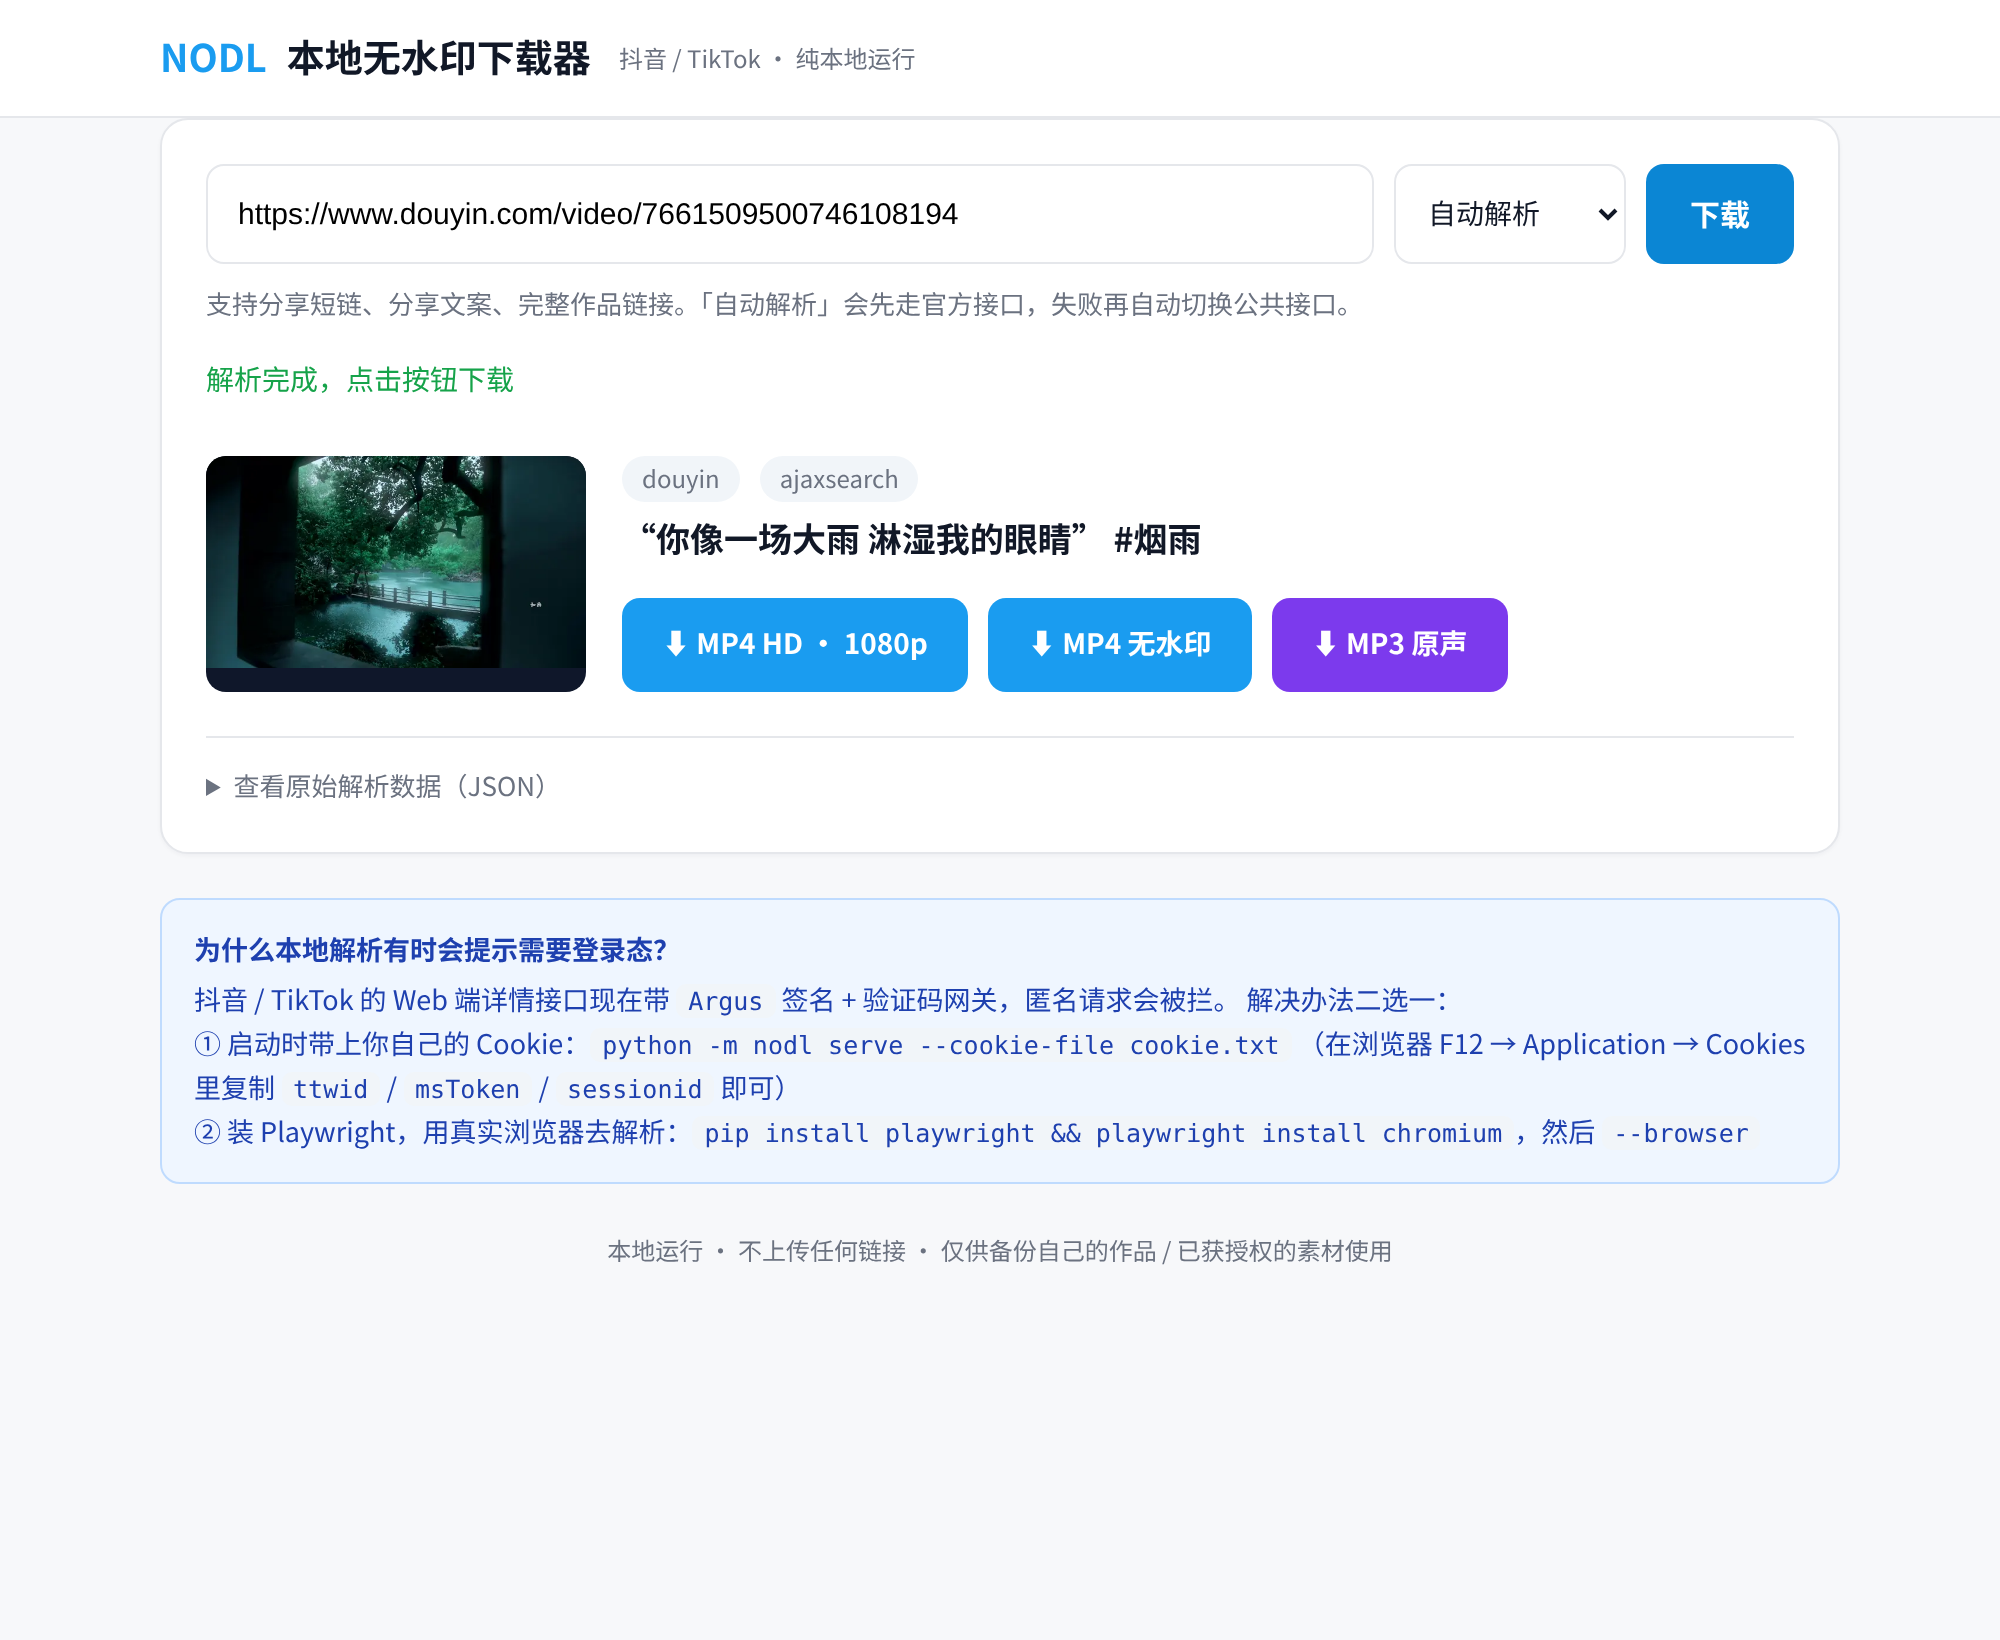
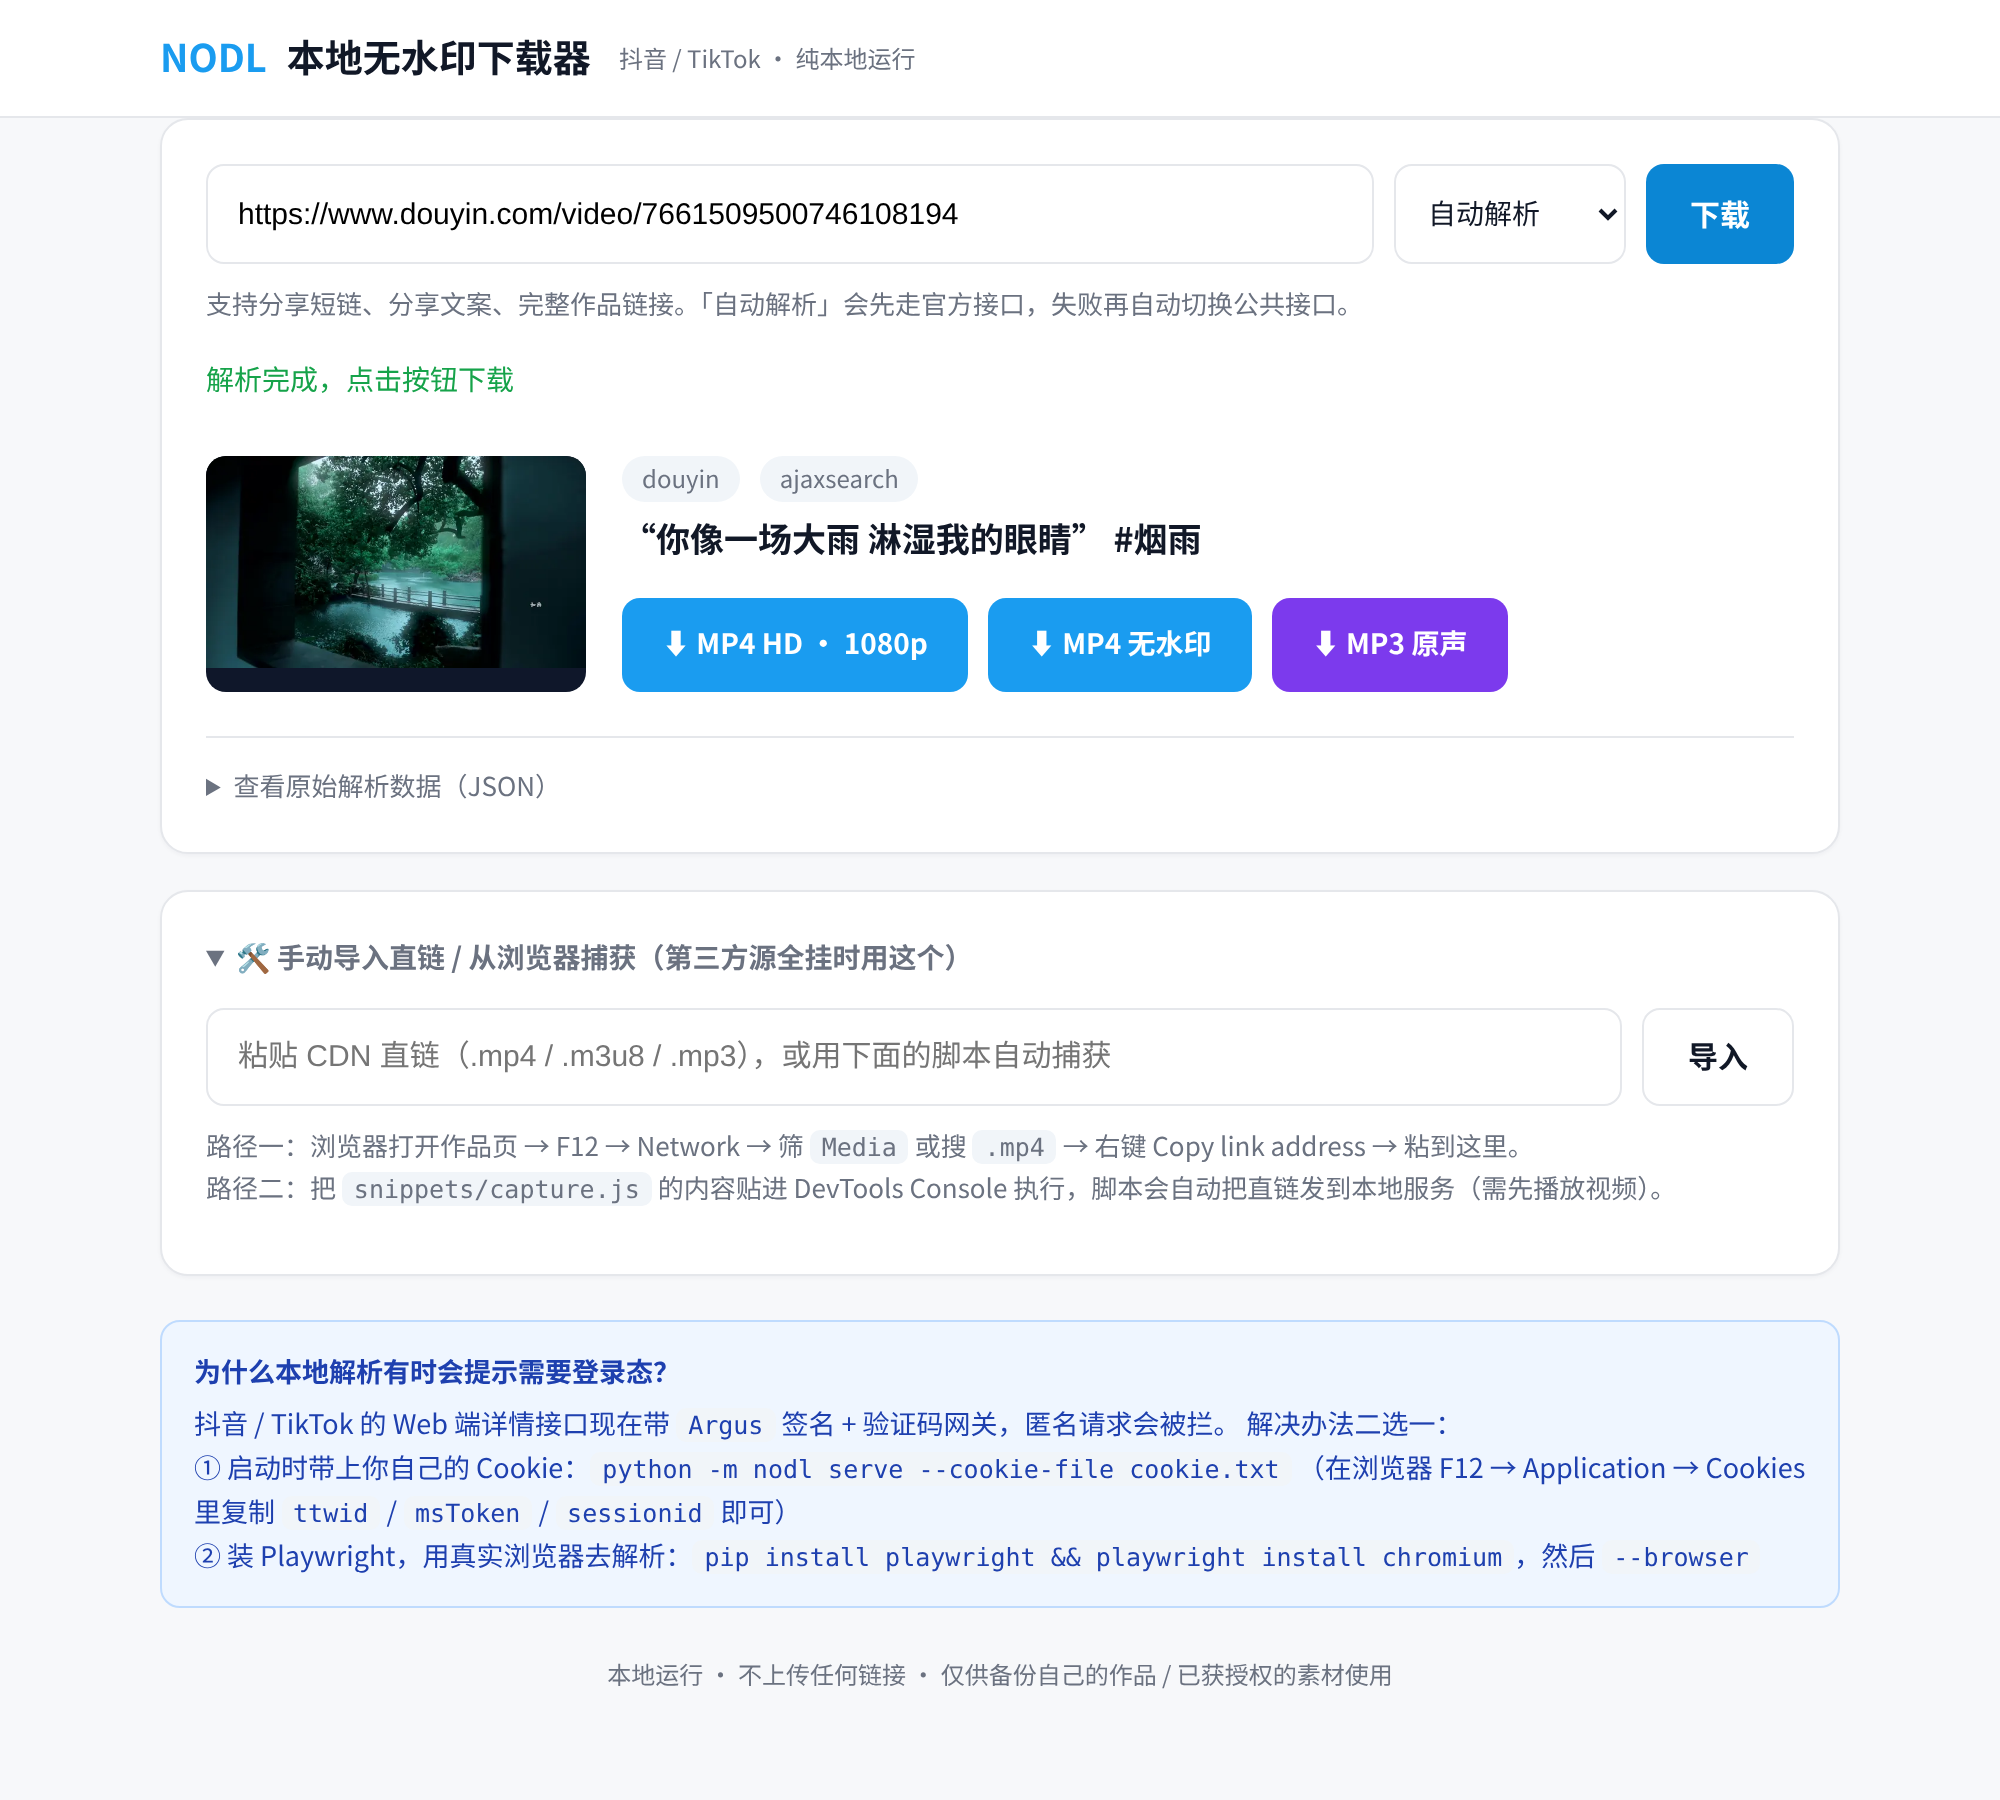
feat: 手动导入直链与浏览器捕获（L3 层）
公共解析源全挂时的最后一条路：用户自己从浏览器里把直链捞出来。

- server.py: 新增 POST /api/ingest，接收直链包装成 Resolved；补 CORS 头与
  do_OPTIONS 预检，跨源可用
- web/index.html: 新增「手动导入直链」折叠面板与导入按钮
- snippets/capture.js: DevTools 片段，一键把页面里的媒体直链发到本地服务
- docs/ui_shot.png: 同步更新界面截图

diff --git a/snippets/capture.js b/snippets/capture.js
@@ -1,0 +1,116 @@
+/* ===================================================================
+ * nodl · 浏览器捕获片段
+ * ===================================================================
+ *
+ * 用法（任选其一）：
+ *
+ *  A) DevTools 片段
+ *     1. 浏览器打开抖音 / TikTok 作品页，**先把视频播起来**
+ *     2. F12 → Console → 粘贴本文件全部内容 → 回车
+ *     3. 控制台会打印找到的直链，并自动 POST 到本地 nodl 服务
+ *
+ *  B) 书签小工具（Bookmarklet）
+ *     把下面这行压缩后拖到书签栏，点击即可（它把页面里已加载的直链发到本地服务）：
+ *
+ *     javascript:(function(){fetch('http://127.0.0.1:8787/api/ingest',{method:'POST',headers:{'Content-Type':'application/json'},body:JSON.stringify({url:(document.querySelector('video')||{}).currentSrc||location.href,title:document.title})}).then(r=>r.text()).then(t=>alert(t)).catch(e=>alert('nodl 未运行：'+e))})()
+ *
+ *  前提：本地 nodl 服务已启动（python -m nodl serve）
+ * =================================================================== */
+
+(function () {
+  var ENDPOINT = 'http://127.0.0.1:8787/api/ingest';
+
+  var MEDIA_RE = /\.(mp4|m4s|m3u8|mp3|m4a)(\?|$)|\/video\/tos\/|douyinvod|zjcdn|bytecdn|tiktokcdn|tokcdn/i;
+
+  function collectFromPerformance() {
+    var out = [];
+    try {
+      performance.getEntriesByType('resource').forEach(function (e) {
+        if (MEDIA_RE.test(e.name)) out.push(e.name);
+      });
+    } catch (e) {}
+    return out;
+  }
+
+  function collectFromVideoTag() {
+    var out = [];
+    try {
+      document.querySelectorAll('video').forEach(function (v) {
+        var s = v.currentSrc || v.src || '';
+        if (s && s.indexOf('blob:') !== 0 && MEDIA_RE.test(s)) out.push(s);
+      });
+    } catch (e) {}
+    return out;
+  }
+
+  function collectFromInlineJson() {
+    var out = [];
+    try {
+      var scripts = document.querySelectorAll('script[type="application/json"], script:not([src])');
+      scripts.forEach(function (s) {
+        var t = s.textContent || '';
+        if (t.indexOf('playAddr') < 0 && t.indexOf('play_addr') < 0) return;
+        var re = /"(?:playAddr|play_addr)"\s*:\s*"([^"]+)"/g, m;
+        while ((m = re.exec(t))) out.push(m[1]);
+        var re2 = /"url_list"\s*:\s*\[\s*"([^"]+)"/g;
+        while ((m = re2.exec(t))) out.push(m[1]);
+      });
+    } catch (e) {}
+    return out;
+  }
+
+  function collectFromGlobals() {
+    var out = [];
+    try {
+      var candidates = [window._ROUTER_DATA, window.__INIT_PROPS__, window.__pace_f];
+      candidates.forEach(function (c) {
+        if (!c) return;
+        var s = typeof c === 'string' ? c : JSON.stringify(c);
+        var re = /"(?:playAddr|play_addr)"\s*:\s*"([^"]+)"/g, m;
+        while ((m = re.exec(s))) out.push(m[1]);
+      });
+    } catch (e) {}
+    return out;
+  }
+
+  var found = []
+    .concat(collectFromPerformance())
+    .concat(collectFromVideoTag())
+    .concat(collectFromInlineJson())
+    .concat(collectFromGlobals());
+
+  // 去重
+  var seen = {}, uniq = [];
+  found.forEach(function (u) {
+    u = u.replace(/&amp;/g, '&');
+    if (!seen[u]) { seen[u] = 1; uniq.push(u); }
+  });
+
+  if (!uniq.length) {
+    console.warn('[nodl] 没找到媒体直链。\n' +
+      '常见原因：\n' +
+      '  1) 视频还没开始播放 —— 先点一下播放按钮，等画面出来\n' +
+      '  2) 页面是验证码/登录墙 —— 换个视频或先登录\n' +
+      '  3) 视频走的是 m3u8 分片，DevTools 里搜 .m3u8');
+    return;
+  }
+
+  console.log('[nodl] 找到 ' + uniq.length + ' 条候选直链:');
+  uniq.slice(0, 10).forEach(function (u) { console.log('   ', u); });
+
+  fetch(ENDPOINT, {
+    method: 'POST',
+    headers: { 'Content-Type': 'application/json' },
+    body: JSON.stringify({ url: uniq[0], candidates: uniq.slice(0, 10), title: document.title })
+  })
+    .then(function (r) { return r.text(); })
+    .then(function (t) {
+      console.log('[nodl] 已发送到本地服务：', t);
+      alert('[nodl] 已捕获并送到本地下载器 ✓\n' + t.slice(0, 300));
+    })
+    .catch(function (e) {
+      console.error('[nodl] 发送失败：', e);
+      alert('[nodl] 发送失败（本地服务没启动？）\n' + e +
+            '\n\n请先运行： python -m nodl serve');
+    });
+})();

diff --git a/web/index.html b/web/index.html
@@ -97,6 +97,21 @@
     </div>
   </div>
 
+  <details class="card" id="manualBox" style="margin-top:18px">
+    <summary style="cursor:pointer;font-weight:600;font-size:14px">🛠 手动导入直链 / 从浏览器捕获（第三方源全挂时用这个）</summary>
+    <div style="margin-top:14px">
+      <div class="row">
+        <input id="manualUrl" type="text" placeholder="粘贴 CDN 直链（.mp4 / .m3u8 / .mp3），或用下面的脚本自动捕获">
+        <button id="manualGo" class="ghost">导入</button>
+      </div>
+      <div class="hint">
+        路径一：浏览器打开作品页 → F12 → Network → 筛 <code>Media</code> 或搜 <code>.mp4</code> → 右键 Copy link address → 粘到这里。<br>
+        路径二：把 <code>snippets/capture.js</code> 的内容贴进 DevTools Console 执行，脚本会自动把直链发到本地服务（需先播放视频）。
+      </div>
+      <div id="manualStatus" class="hint"></div>
+    </div>
+  </details>
+
   <div class="tip">
     <b>为什么本地解析有时会提示需要登录态？</b>
     抖音 / TikTok 的 Web 端详情接口现在带 <code>Argus</code> 签名 + 验证码网关，匿名请求会被拦。
@@ -115,6 +130,26 @@ const status = (msg, cls) => { const el = $('#status'); el.textContent = msg; el
 
 $('#url').addEventListener('keydown', (e) => { if (e.key === 'Enter') run(); });
 $('#go').addEventListener('click', run);
+$('#manualGo').addEventListener('click', manualImport);
+$('#manualUrl').addEventListener('keydown', (e) => { if (e.key === 'Enter') manualImport(); });
+
+async function manualImport() {
+  const url = $('#manualUrl').value.trim();
+  if (!url) { $('#manualStatus').textContent = '请先粘贴直链'; return; }
+  $('#manualStatus').textContent = '导入中…';
+  try {
+    const res = await fetch('/api/ingest', {
+      method: 'POST', headers: {'Content-Type': 'application/json'},
+      body: JSON.stringify({url, title: '手动导入'})
+    });
+    const data = await res.json();
+    if (!data.ok) { $('#manualStatus').textContent = '导入失败：' + (data.error || '未知错误'); return; }
+    $('#manualStatus').textContent = '导入成功，下面是下载按钮：';
+    render(data);
+  } catch (e) {
+    $('#manualStatus').textContent = '请求失败：' + e.message;
+  }
+}
 
 async function run() {
   const url = $('#url').value.trim();

diff --git a/nodl/server.py b/nodl/server.py
@@ -44,8 +44,19 @@ class Handler(BaseHTTPRequestHandler):
         self.send_header("Content-Type", "application/json; charset=utf-8")
         self.send_header("Content-Length", str(len(body)))
         self.send_header("Cache-Control", "no-store")
+        self.send_header("Access-Control-Allow-Origin", "*")
+        self.send_header("Access-Control-Allow-Headers", "Content-Type")
+        self.send_header("Access-Control-Allow-Methods", "GET,POST,OPTIONS")
         self.end_headers()
         self.wfile.write(body)
+
+    def do_OPTIONS(self) -> None:  # noqa: N802
+        self.send_response(204)
+        self.send_header("Access-Control-Allow-Origin", "*")
+        self.send_header("Access-Control-Allow-Headers", "Content-Type")
+        self.send_header("Access-Control-Allow-Methods", "GET,POST,OPTIONS")
+        self.send_header("Content-Length", "0")
+        self.end_headers()
 
     def _send_html(self, path: str) -> None:
         try:
@@ -76,7 +87,7 @@ class Handler(BaseHTTPRequestHandler):
 
     def do_POST(self) -> None:  # noqa: N802
         parsed = urllib.parse.urlparse(self.path)
-        if parsed.path != "/api/resolve":
+        if parsed.path not in ("/api/resolve", "/api/ingest"):
             self.send_error(404)
             return
         length = int(self.headers.get("Content-Length") or 0)
@@ -85,6 +96,9 @@ class Handler(BaseHTTPRequestHandler):
             payload = json.loads(raw.decode("utf-8"))
         except Exception:
             self._send_json({"ok": False, "error": "请求体不是合法 JSON"}, 400)
+            return
+        if parsed.path == "/api/ingest":
+            self._ingest(payload)
             return
         url = (payload.get("url") or "").strip()
         if not url:
@@ -103,6 +117,36 @@ class Handler(BaseHTTPRequestHandler):
         data = res.to_dict()
         data["ok"] = True
         self._send_json(data)
+
+    def _ingest(self, payload: Dict[str, Any]) -> None:
+        """Accept a media url captured by the user (bookmarklet / DevTools)."""
+        url = (payload.get("url") or "").strip()
+        if not url:
+            self._send_json({"ok": False, "error": "缺少 url"}, 400)
+            return
+        candidates = payload.get("candidates") or []
+        if isinstance(candidates, list):
+            candidates = [c for c in candidates if isinstance(c, str)]
+        title = (payload.get("title") or "").strip()
+        try:
+            from .extract import Target
+            from .resolver import Resolver
+            target = Target(platform="direct", url=url, original=url,
+                            page_url=url, share_url=url)
+            res = Resolver()._direct(target)
+            res.title = title or res.title
+            # remember it so a later resolve can reuse it
+            vid = url.split("/")[-1].split("?")[0][:40]
+            try:
+                Resolver().cache.put_url("direct", vid, url, title=res.title)
+            except Exception:
+                pass
+            data = res.to_dict()
+            data["ok"] = True
+            data["candidates"] = candidates
+            self._send_json(data)
+        except Exception as exc:
+            self._send_json({"ok": False, "error": str(exc)}, 200)
 
     def _proxy(self, qs: Dict[str, list]) -> None:
         """Fetch an image (cover) with the Referer the CDN expects."""
